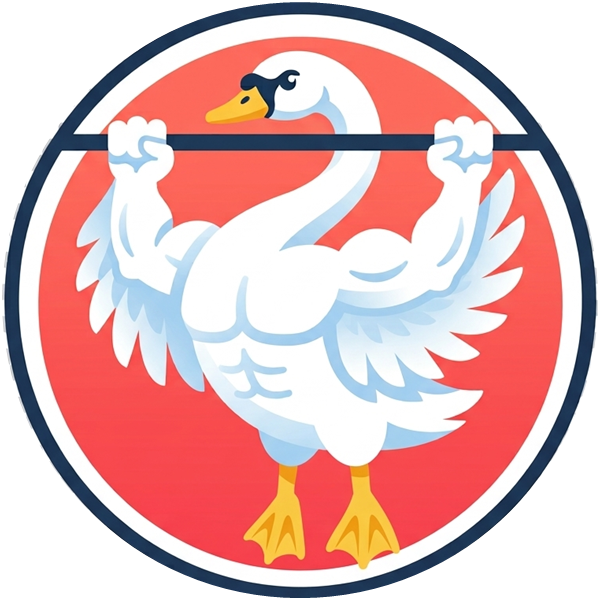
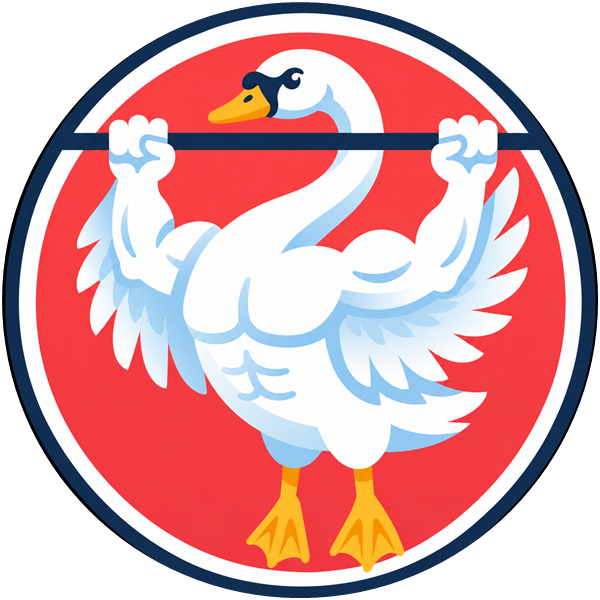
Swan: neues Basisbild, Hover-Klimmzug vorbereitet
- Neues Basisbild von Nicolas zugeschnitten (Rohbild in originals/, nicht in Git)
- tools/crop-circle.ps1: Kreis-Ausschnitt mit Navy-Ring-Erkennung
- Generator: frames für Animationen aus mehreren Bildern
- Hover-Animation mit Touch-Auslöser und reduzierter Bewegung
- Prompt für die zweite Pose, CLAUDE.md aufgeräumt und aktualisiert

diff --git a/css/styles.css b/css/styles.css
@@ -1125,3 +1125,68 @@ h2 {
     max-width: 280px;
     filter: drop-shadow(0 12px 24px rgba(0, 0, 0, 0.35));
 }
+
+/* --- Art Frames --- */
+.art-frames {
+    display: grid;
+    width: 100%;
+    max-width: 210px;
+}
+
+.project-card.featured .card-art .art-frames {
+    max-width: 320px;
+    filter: drop-shadow(0 12px 24px rgba(0, 0, 0, 0.35));
+}
+
+.detail-art .art-frames {
+    max-width: 280px;
+    filter: drop-shadow(0 12px 24px rgba(0, 0, 0, 0.35));
+}
+
+.art-frames .art-frame,
+.project-card.featured .card-art .art-frames .art-frame,
+.detail-art .art-frames .art-frame {
+    grid-area: 1 / 1;
+    max-width: none;
+    filter: none;
+}
+
+.art-frames .art-frame + .art-frame {
+    opacity: 0;
+}
+
+.project-card:hover .card-art .art-frames .art-frame {
+    transform: none;
+}
+
+.project-card:hover .art-frames,
+.detail-art:hover .art-frames,
+.art-frames.is-playing {
+    animation: frames-bounce 1.6s ease-in-out infinite;
+}
+
+.project-card:hover .art-frames .art-frame + .art-frame,
+.detail-art:hover .art-frames .art-frame + .art-frame,
+.art-frames.is-playing .art-frame + .art-frame {
+    animation: frames-swap 1.6s ease-in-out infinite;
+}
+
+@keyframes frames-swap {
+    0%, 36% { opacity: 0; }
+    42%, 78% { opacity: 1; }
+    84%, 100% { opacity: 0; }
+}
+
+@keyframes frames-bounce {
+    0%, 36% { transform: translateY(0); }
+    42% { transform: translateY(-6px) scale(1.02); }
+    50%, 78% { transform: translateY(-2px); }
+    84%, 100% { transform: translateY(0); }
+}
+
+@media (prefers-reduced-motion: reduce) {
+    .art-frames,
+    .art-frames .art-frame {
+        animation: none !important;
+    }
+}

diff --git a/tools/build-pages.js b/tools/build-pages.js
@@ -368,9 +368,21 @@ const ART = {
 
 const art = (slug, n) => indent(ART[slug].split('\n').map(l => l.replace(/^ {4}/, '')).join('\n'), n);
 
-const artFor = (p, n, prefix) => (p.image
-    ? indent(`<img src="${prefix}${p.image}" alt="" class="art-image" width="600" height="600">`, n)
-    : art(p.slug, n));
+const artImage = (src, prefix, cls) => `<img src="${prefix}${src}" alt="" class="${cls}" width="600" height="600">`;
+
+const artFor = (p, n, prefix) => {
+    if (p.frames) {
+        return indent([
+            '<div class="art-frames">',
+            ...p.frames.map(src => '    ' + artImage(src, prefix, 'art-image art-frame')),
+            '</div>',
+        ].join('\n'), n);
+    }
+    if (p.image) {
+        return indent(artImage(p.image, prefix, 'art-image'), n);
+    }
+    return art(p.slug, n);
+};
 
 const STATUS_BADGE = { 'Live': 'live', 'In Arbeit': 'wip', 'Prototyp': 'proto', 'Fertig': 'done' };
 

diff --git a/javascript/main.js b/javascript/main.js
@@ -83,5 +83,23 @@ filterButtons.forEach(button => {
     });
 });
 
+// --- Art Frames ---
+const artFrames = document.querySelectorAll('.art-frames');
+
+if (artFrames.length && window.matchMedia('(hover: none)').matches && 'IntersectionObserver' in window) {
+    const framesObserver = new IntersectionObserver(entries => {
+        entries.forEach(entry => {
+            if (!entry.isIntersecting) {
+                return;
+            }
+            framesObserver.unobserve(entry.target);
+            entry.target.classList.add('is-playing');
+            setTimeout(() => entry.target.classList.remove('is-playing'), 3200);
+        });
+    }, { threshold: 0.6 });
+
+    artFrames.forEach(frames => framesObserver.observe(frames));
+}
+
 // --- Footer Year ---
 document.getElementById('year').textContent = new Date().getFullYear();

diff --git a/CLAUDE.md b/CLAUDE.md
@@ -8,17 +8,25 @@ Persönliche Portfolio-Website (statisches HTML/CSS/JS), gehostet über GitHub P
 - `ueber-mich.html` – Über-mich-Seite (Steckbrief, Werdegang, Skills, Interessen – noch mit Platzhaltern)
 - `projekte/<slug>.html` – eine Detailseite pro Projekt (Illustration, Lead, Zeitraum/Status/Tech, Über das Projekt, Features, Technik, Vor/Zurück)
 - `css/styles.css` – alle Styles; Dark ist Standard (`:root`), Light über `:root[data-theme="light"]`
-- `javascript/main.js` – Hell/Dunkel-Umschalter (Wahl in `localStorage` unter `theme`), aktiver Navigationspunkt beim Scrollen (nur Startseite), Projektfilter, Jahreszahl
+- `javascript/main.js` – Hell/Dunkel-Umschalter (Wahl in `localStorage` unter `theme`), aktiver Navigationspunkt beim Scrollen (nur Startseite), Projektfilter, Auslöser der Bild-Animationen auf Touch-Geräten, Jahreszahl
 - `tools/build-pages.js` – **Generator**: enthält alle Projektdaten (Texte, Features, Tech, Links, Status) und die SVG-Illustrationen und erzeugt daraus die Projektkarten in `index.html`, alle `projekte/*.html`, `ueber-mich.html` sowie die Sidebar auf allen Seiten.
-- `assets/images/` – eigene Projektbilder (PNG mit Transparenz); im Generator per `image: 'assets/images/<datei>.png'` beim Projekt eintragen, dann ersetzt das Bild die SVG-Illustration auf Karte und Detailseite
-- `docs/bild-prompt.md` – Prompt für Bildmodelle, um ein Bild im Art Style der Seite (Flat Design, PNG ohne Hintergrund) zu erzeugen
-- Lokal testen: Eintrag `portfolio` in `C:Source.claudelaunch.json` → http://localhost:4176
+- `tools/crop-circle.ps1` – schneidet runde Motive (Kreis mit Navy-Ring, z.B. das Swan-Logo) aus einem Rohbild aus und speichert ein 600×600-PNG mit echter Transparenz (Befehl siehe `docs/bild-prompt.md`)
+- `assets/images/` – fertige Projektbilder (PNG mit Transparenz), siehe „Bilder & Animationen“
+- `originals/` – Rohbilder (z.B. von Gemini), **nicht in Git** (`.gitignore`); daraus werden die Bilder in `assets/images/` erzeugt
+- `docs/bild-prompt.md` – Prompts für Bildmodelle (Bild im Art Style der Seite, zweite Pose für Animationen) und Anleitung zum Zuschneiden
+- Lokal testen: Eintrag `portfolio` in `C:\Source\.claude\launch.json` → http://localhost:4176
 
 ## Seiten bearbeiten
 
 - **Projekte, Sidebar, Über-mich-Seite: immer in `tools/build-pages.js` ändern** und danach `node tools/build-pages.js` ausführen. Nicht direkt in den erzeugten HTML-Dateien ändern – das wird beim nächsten Lauf überschrieben.
 - In `index.html` von Hand gepflegt: `<head>`, Projekte-Überschrift + Filter, Kontakt-Abschnitt. Der Generator ersetzt nur das `.projects-grid` und die `<aside>`.
 - Neues Projekt: Eintrag im Array `projects` (slug, category, title, card, lead, period, status, live, code, about, features, tech, techNotes) + Illustration in `ART[slug]` + Farb-Theme `.theme-<slug>` in `styles.css`.
+
+## Bilder & Animationen
+
+- **Eigenes Bild statt SVG:** beim Projekt `image: 'assets/images/<datei>.png'` eintragen → ersetzt die SVG-Illustration auf Karte und Detailseite.
+- **Animation aus mehreren Bildern:** stattdessen `frames: ['assets/images/<start>.png', 'assets/images/<zweite-pose>.png']` eintragen. Beim Hover über Karte bzw. Detail-Banner wechselt das Bild in einer Schleife (1,6 s) zur zweiten Pose und zurück, mit kurzem Federn (`frames-swap`, `frames-bounce` in `styles.css`). Auf Touch-Geräten spielt die Animation zwei Durchgänge, sobald das Bild ins Blickfeld scrollt (`main.js`, Klasse `.is-playing`). Bei „Bewegung reduzieren“ (`prefers-reduced-motion`) bleibt das Startbild stehen. Beide Frames müssen exakt gleich ausgerichtet sein → beide mit `tools/crop-circle.ps1` zuschneiden.
+- **Rohbilder von Gemini:** Gemini liefert statt echter Transparenz oft ein aufgemaltes Schachbrett (JPG) oder einen schwarzen Hintergrund → Rohbild in `originals/` ablegen und mit `tools/crop-circle.ps1` zuschneiden. Neue Posen oder Varianten immer unter neuem Namen speichern, nie über das Basisbild.
 
 ## Konventionen
 
@@ -46,21 +54,22 @@ Erledigt:
 - Dark als Standard-Design, Hell/Dunkel-Umschalter in der Sidebar (Wahl bleibt gespeichert).
 - Kartenfuß vereinheitlicht: immer zuerst die Buttons (Live ansehen, Code) in einer Zeile, darunter „Mehr lesen →“ (`.card-footer`).
 - Bild-Prompt für Illustrationen im Seiten-Stil unter `docs/bild-prompt.md` abgelegt.
-- Swan Calisthenics nutzt jetzt Nicolas' eigenes Logo-Bild (Schwan an der Klimmzugstange, mit Gemini erstellt) statt der SVG. Das Gemini-Original (JPG mit aufgemaltem Schachbrett statt echter Transparenz) wurde kreisförmig ausgeschnitten → `assets/images/swan-calisthenics.png` (600×600, transparent). Originale `Gemini_Generated_Image_*` sind per `.gitignore` ausgeschlossen (ein versehentlich committetes Original wurde per filter-branch aus der Historie entfernt).
-- Git-Historie umgeschrieben (alle Commits mit noreply-Adresse, Gemini-Original entfernt) und am 2026-10-04 von Nicolas per Force-Push auf GitHub gebracht. Ab jetzt reichen normale Pushes (Claude darf in dieser Umgebung nicht selbst pushen – Nicolas pusht).
-- Ideen & Inspiration von n1code.dev (Seite eines Kollegen) gesammelt.
-
-Offen:
-- **Über-mich-Seite:** Nicolas liefert noch Infos (Vorstellung, Wohnort, Ausbildung, Werdegang, Interessen) – Platzhalter (`.placeholder`) dann in `aboutPage()` ersetzen.
-- **Gamehub** ist auf GitHub (https://github.com/n-brand/gamehub) und hat einen Live-Link (https://n-brand.github.io/gamehub/). Stand 2026-10-04 zeigt GitHub Pages dort aber nur die README („gamehub“), weil die App in `public/` liegt – muss im Gamehub-Repo gelöst werden (z.B. Pages-Quelle auf `/docs` und `public/` → `docs/` umbenennen, oder `index.html` im Root).
-- **Escape Room:** alle Commits stammen vom GitHub-Nutzer „Emi15454“ – mit Nicolas klären, ob Gruppenarbeit, und ggf. erwähnen.
-- **Influencer:** Repo enthält noch Reste aus dem Webshop (Beschreibungen, Footer) und ein kaputtes `js/local.json` – evtl. aufräumen.
-- `README.md` enthält noch den ursprünglichen KI-Prompt – evtl. durch Projektbeschreibung ersetzen.
-- Hinweis für neue Gemini-Bilder: Gemini malt die Transparenz oft nur als Schachbrettmuster ins JPG → Hintergrund muss danach entfernt werden (bei runden Motiven per Kreis-Ausschnitt mit PowerShell/System.Drawing).
+- Swan Calisthenics nutzt Nicolas' eigenes Logo-Bild (Schwan an der Klimmzugstange, mit Gemini erstellt) statt der SVG. Am 2026-10-04 hat Nicolas das Basisbild bewusst durch eine neue, schärfere Version ersetzt (Rohbild 1254×1254 mit schwarzem Hintergrund in `originals/swan-calisthenics.png`, mit `tools/crop-circle.ps1` zugeschnitten → `assets/images/swan-calisthenics.png`). Das erste Gemini-Original (JPG mit aufgemaltem Schachbrett) liegt ungetrackt im Projektordner (`Gemini_Generated_Image_*` in `.gitignore`; ein versehentlich committetes Exemplar wurde per filter-branch aus der Historie entfernt).
 - Dunkle Karten (Swan, Textbased Game) haben einen feinen hellen Rand über `--card-ring` im Theme; andere Karten ohne Rand.
 - JARVIS-Karte hatte fast dieselbe Farbe wie der dunkle Hintergrund → neues Theme im Iron-Man-Stil (Rot #a51d2d, goldene Links), Cyan-Reaktor bleibt.
 - Minecraft-Illustration: Pixel-Kopf halb Steve (links), halb Zombie (rechts), gelbe Merge-Linie in der Mitte. Farben pro Pixel aus echten Minecraft-Gesichtern übernommen (`STEVE_FACE`, `ZOMBIE_FACE` im Generator).
 - Pixel-Art-Illustrationen: Pixel überlappen um 0.6px (kein crispEdges), damit beim Drehen/Skalieren keine Linien zwischen den Pixeln entstehen.
+- Hover-Klimmzug für Swan vorbereitet: Generator unterstützt `frames`, Animation (Hover, Touch-Auslöser, reduzierte Bewegung) ist gebaut und mit einem Test-Frame geprüft (Test-Frame wieder entfernt).
+- Git-Historie umgeschrieben (alle Commits mit noreply-Adresse, Gemini-Original entfernt) und am 2026-10-04 von Nicolas per Force-Push auf GitHub gebracht. Ab jetzt reichen normale Pushes (Claude darf in dieser Umgebung nicht selbst pushen – Nicolas pusht).
+- Ideen & Inspiration von n1code.dev (Seite eines Kollegen) gesammelt.
+
+Offen:
+- **Swan-Hover-Klimmzug:** Nicolas erstellt noch das zweite Bild (Schwan zieht sich hoch, Brust über der Stange; Prompt in `docs/bild-prompt.md`). Danach: Rohbild nach `originals/`, mit `tools/crop-circle.ps1` nach `assets/images/swan-calisthenics-hoch.png` zuschneiden, prüfen, ob Ring und Stange in beiden Frames gleich liegen, und beim Swan-Projekt `image` durch `frames: ['assets/images/swan-calisthenics.png', 'assets/images/swan-calisthenics-hoch.png']` ersetzen.
+- **Über-mich-Seite:** Nicolas liefert noch Infos (Vorstellung, Wohnort, Ausbildung, Werdegang, Interessen) – Platzhalter (`.placeholder`) dann in `aboutPage()` ersetzen.
+- **Gamehub** ist auf GitHub (https://github.com/n-brand/gamehub) und im Portfolio mit Live-Link (https://n-brand.github.io/gamehub/) eingetragen. GitHub Pages zeigt dort aber nur die README („gamehub“): Die App liegt in `public/`, und `public/index.html` nutzt absolute Pfade (`/css/…`, `/js/…`), die unter `/gamehub/` ins Leere zeigen. Lösung im Gamehub-Repo (nicht hier): Pfade relativ machen + GitHub-Actions-Workflow, der `public/` veröffentlicht (Pages-Quelle „GitHub Actions“).
+- **Escape Room:** alle Commits stammen vom GitHub-Nutzer „Emi15454“ – mit Nicolas klären, ob Gruppenarbeit, und ggf. erwähnen.
+- **Influencer:** Repo enthält noch Reste aus dem Webshop (Beschreibungen, Footer) und ein kaputtes `js/local.json` – evtl. aufräumen.
+- `README.md` enthält noch den ursprünglichen KI-Prompt – evtl. durch Projektbeschreibung ersetzen.
 - Echte Screenshots der Projekte (optional, zusätzlich zu den Illustrationen); echtes Profilfoto (optional).
 
 ## Ideen & Inspiration

diff --git a/docs/bild-prompt.md b/docs/bild-prompt.md
@@ -42,6 +42,33 @@ Redraw the attached image as clean pixel art (32×32 grid, upscaled with hard ed
 
 **Passend zu einer bestimmten Projektkarte** – die Farbpalette durch die Farben der Karte ersetzen (siehe `.theme-<slug>` in `css/styles.css`), z.B. für Minecraft: Lime `#A9E34B` + Navy `#183153`.
 
+## Zweite Pose für eine Hover-Animation
+
+Für eine Animation braucht es ein zweites Bild mit derselben Figur in einer anderen Pose (z.B. Swan Calisthenics: Schwan zieht sich hoch, bis die Brust über der Stange ist). Das bestehende Bild hochladen und **die Änderung zuerst und konkret beschreiben** – sonst ändert das Modell die Pose kaum:
+
+```text
+Edit the attached image: the swan pulls itself up much higher, like the top of a high pull-up.
+
+Pose change (this is the important part):
+- Move the swan's body, chest, neck and head clearly upward, so the chest is ABOVE the bar.
+- The bar now crosses in front of the swan's belly.
+- The fists stay on the bar at exactly the same spots; the elbows are bent tightly and point down below the bar.
+- The legs and feet are higher too, with empty red space below them.
+- The neck may bend more or the head may lean forward over the bar, so the head stays inside the circle.
+
+Keep unchanged: circle, rings, red background, bar position, colors, art style, image size and framing.
+```
+
+Das Ergebnis **unter einem neuen Namen** in `originals/` speichern (z.B. `originals/swan-calisthenics-hoch.png`), nie über das Basisbild.
+
+## Bilder zuschneiden
+
+Runde Motive (Kreis mit Ring) schneidet `tools/crop-circle.ps1` aus: Es findet den Navy-Ring, schneidet den Kreis aus und speichert ein 600×600-PNG mit echter Transparenz – egal ob das Original einen schwarzen, weißen oder aufgemalten Schachbrett-Hintergrund hat.
+
+```powershell
+powershell -ExecutionPolicy Bypass -File tools/crop-circle.ps1 -InputPath originals/swan-calisthenics-hoch.png -OutputPath assets/images/swan-calisthenics-hoch.png
+```
+
 ## Tipps
 
 - Kommt trotzdem ein weißer Hintergrund: „Isolated subject on a fully transparent background, PNG“ anhängen oder den Hintergrund nachträglich entfernen (remove.bg oder „Hintergrund entfernen“ in Windows Fotos/Paint).
